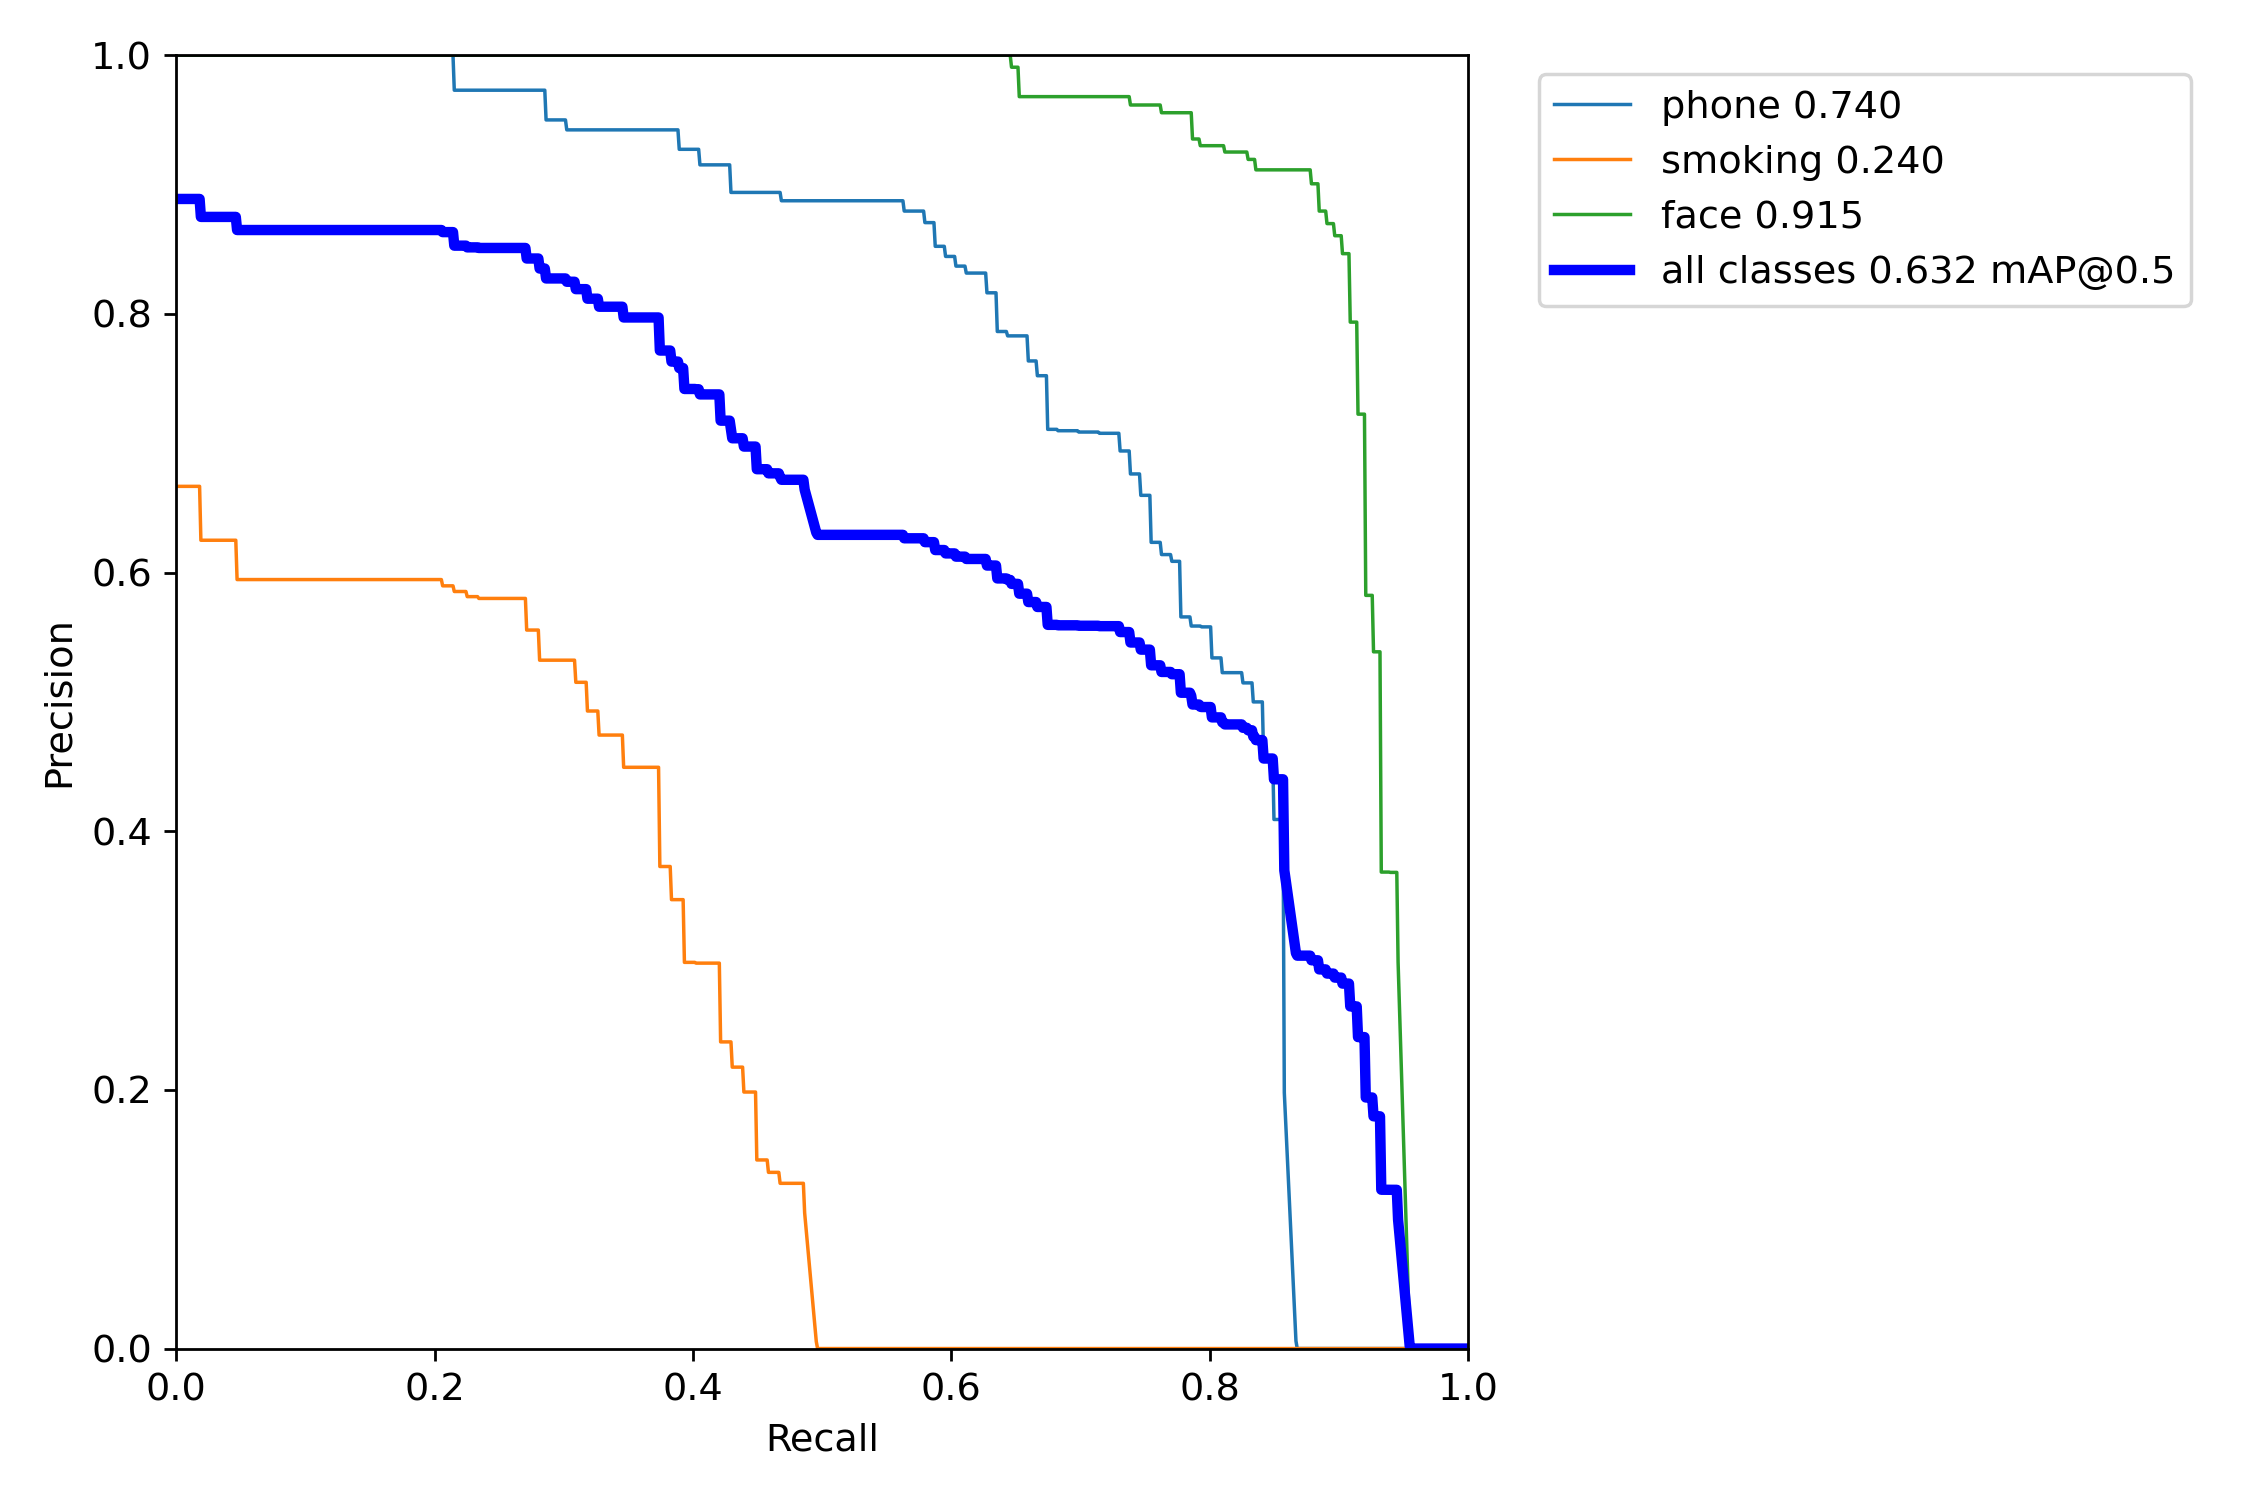
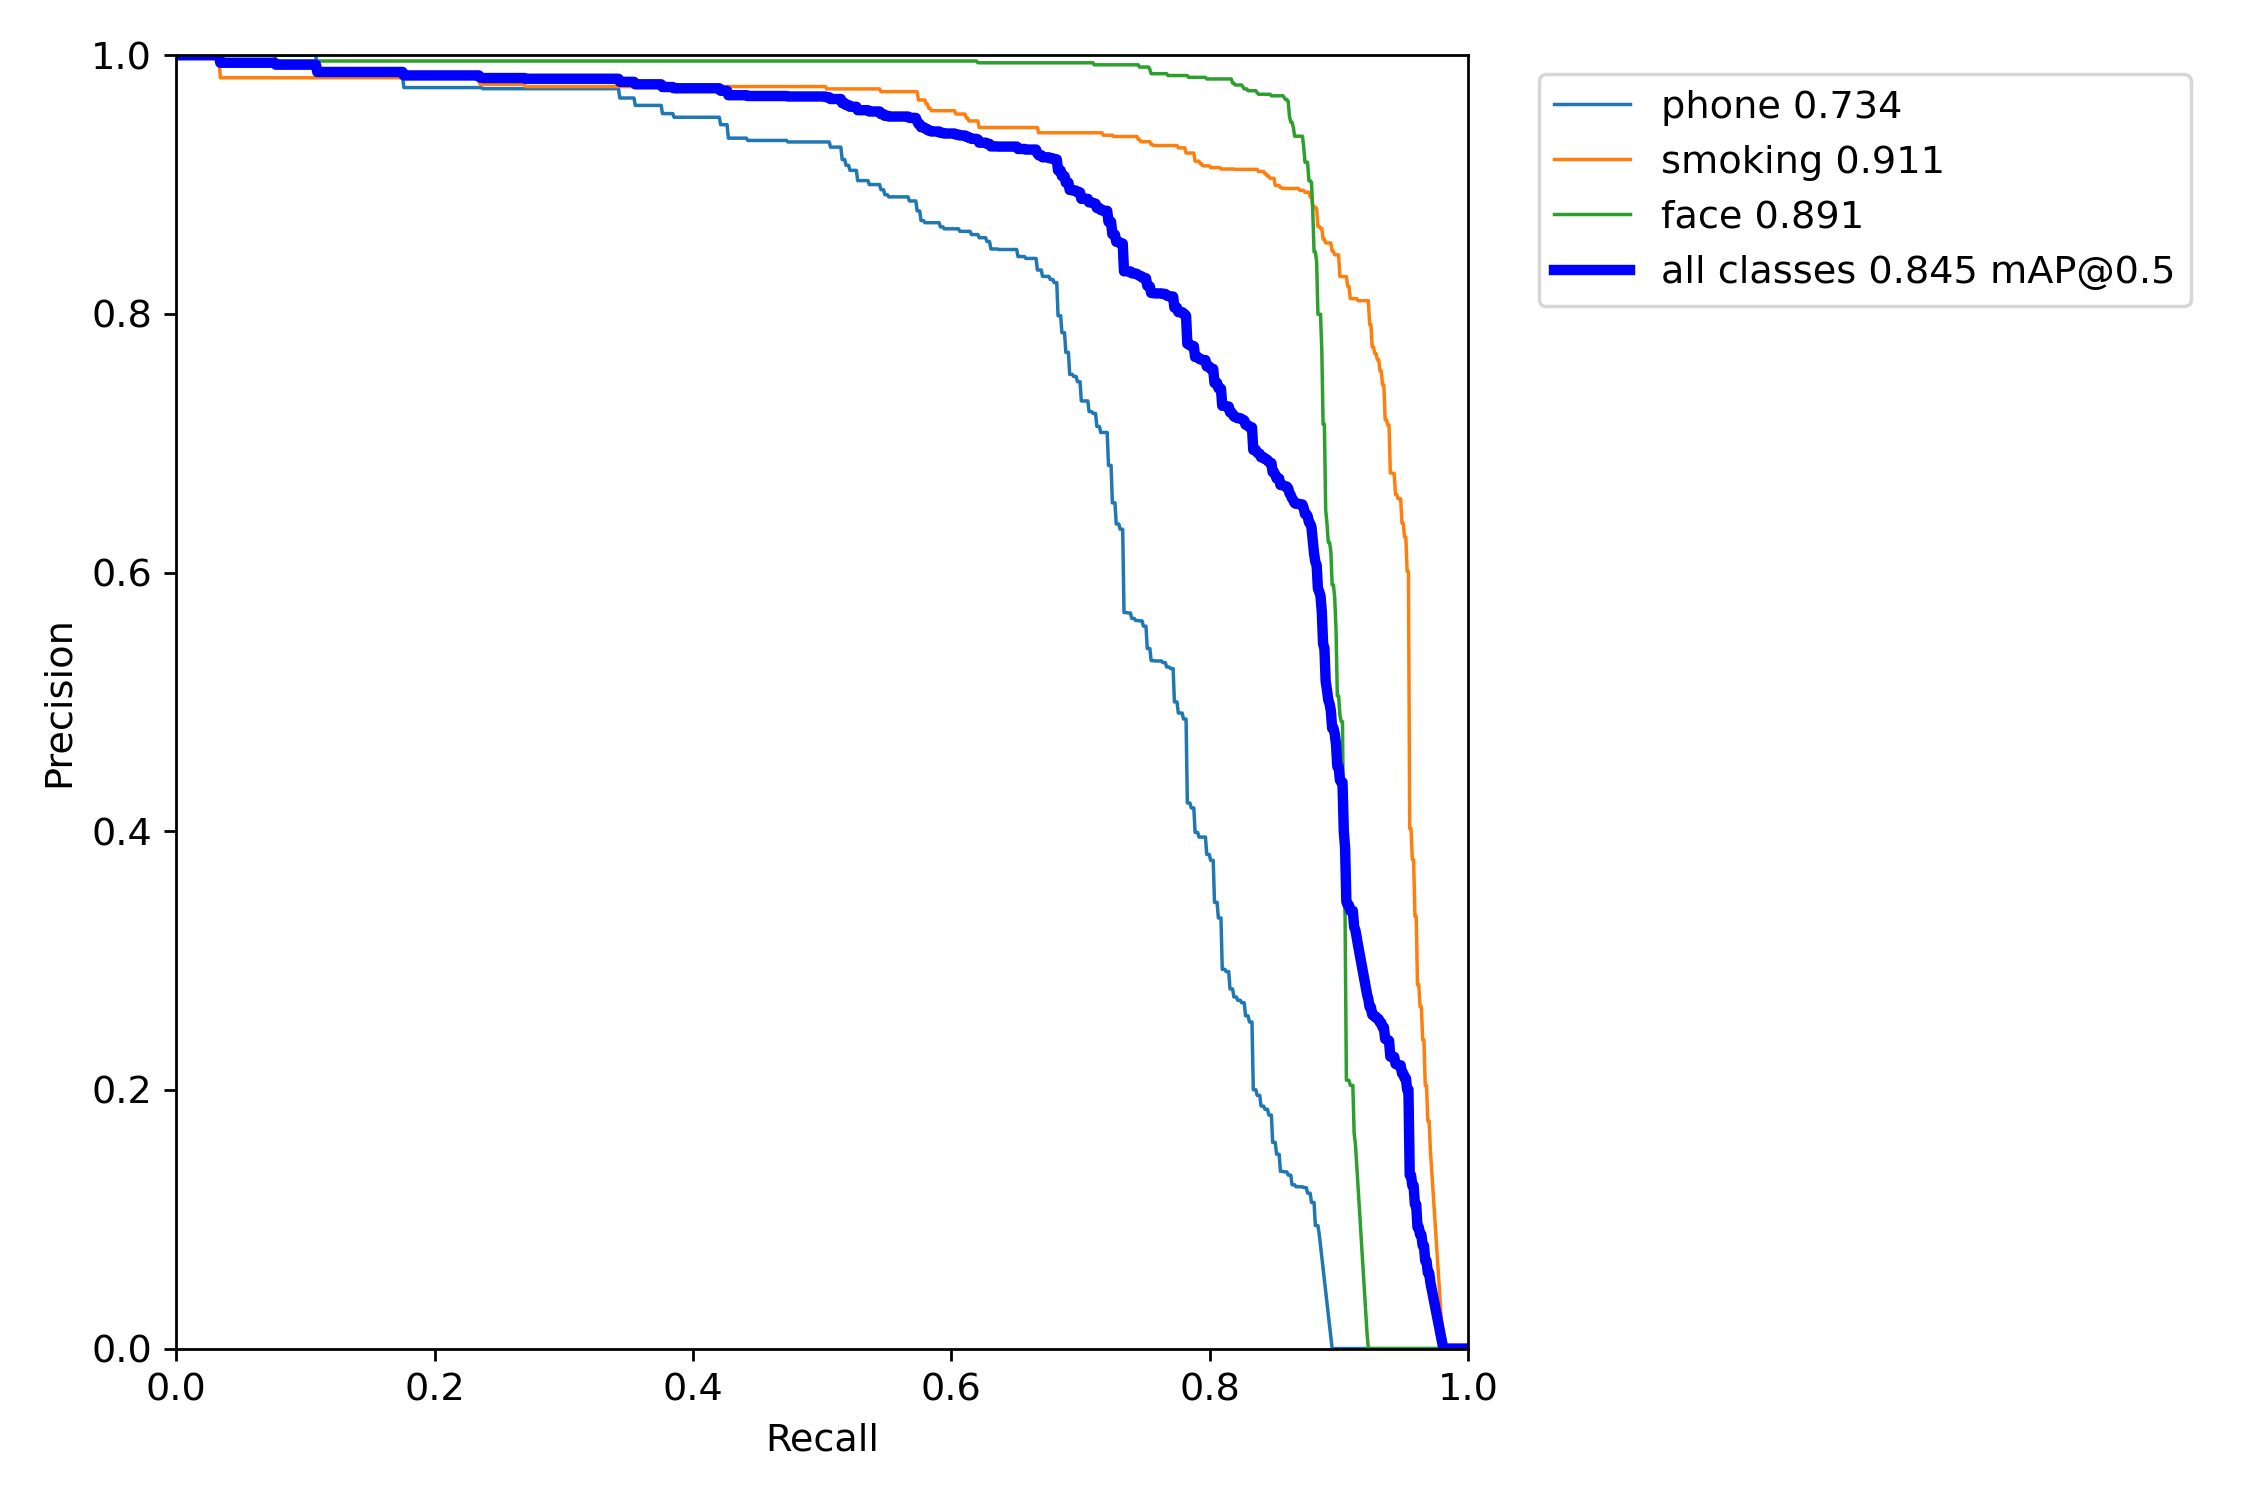
优化了代码

diff --git a/face_smoking_phone_sleep/atk_rockx_face_recognition.cpp b/face_smoking_phone_sleep/atk_rockx_face_recognition.cpp
@@ -120,7 +120,7 @@ int atk_recognition_init()
   /*
   VO_CHN_ATTR_S stVoAttr = {0};
   stVoAttr.pcDevNode = "/dev/dri/card0";
-  stVoAttr.emPlaneType = VO_PLANE_PRIMARY;
+  stVoAttr.emPlaneType = VO_PLANE_OVERLAY;
   stVoAttr.enImgType = IMAGE_TYPE_BGR888;
   stVoAttr.u16Zpos = 0;
   stVoAttr.stImgRect.s32X = 0;
